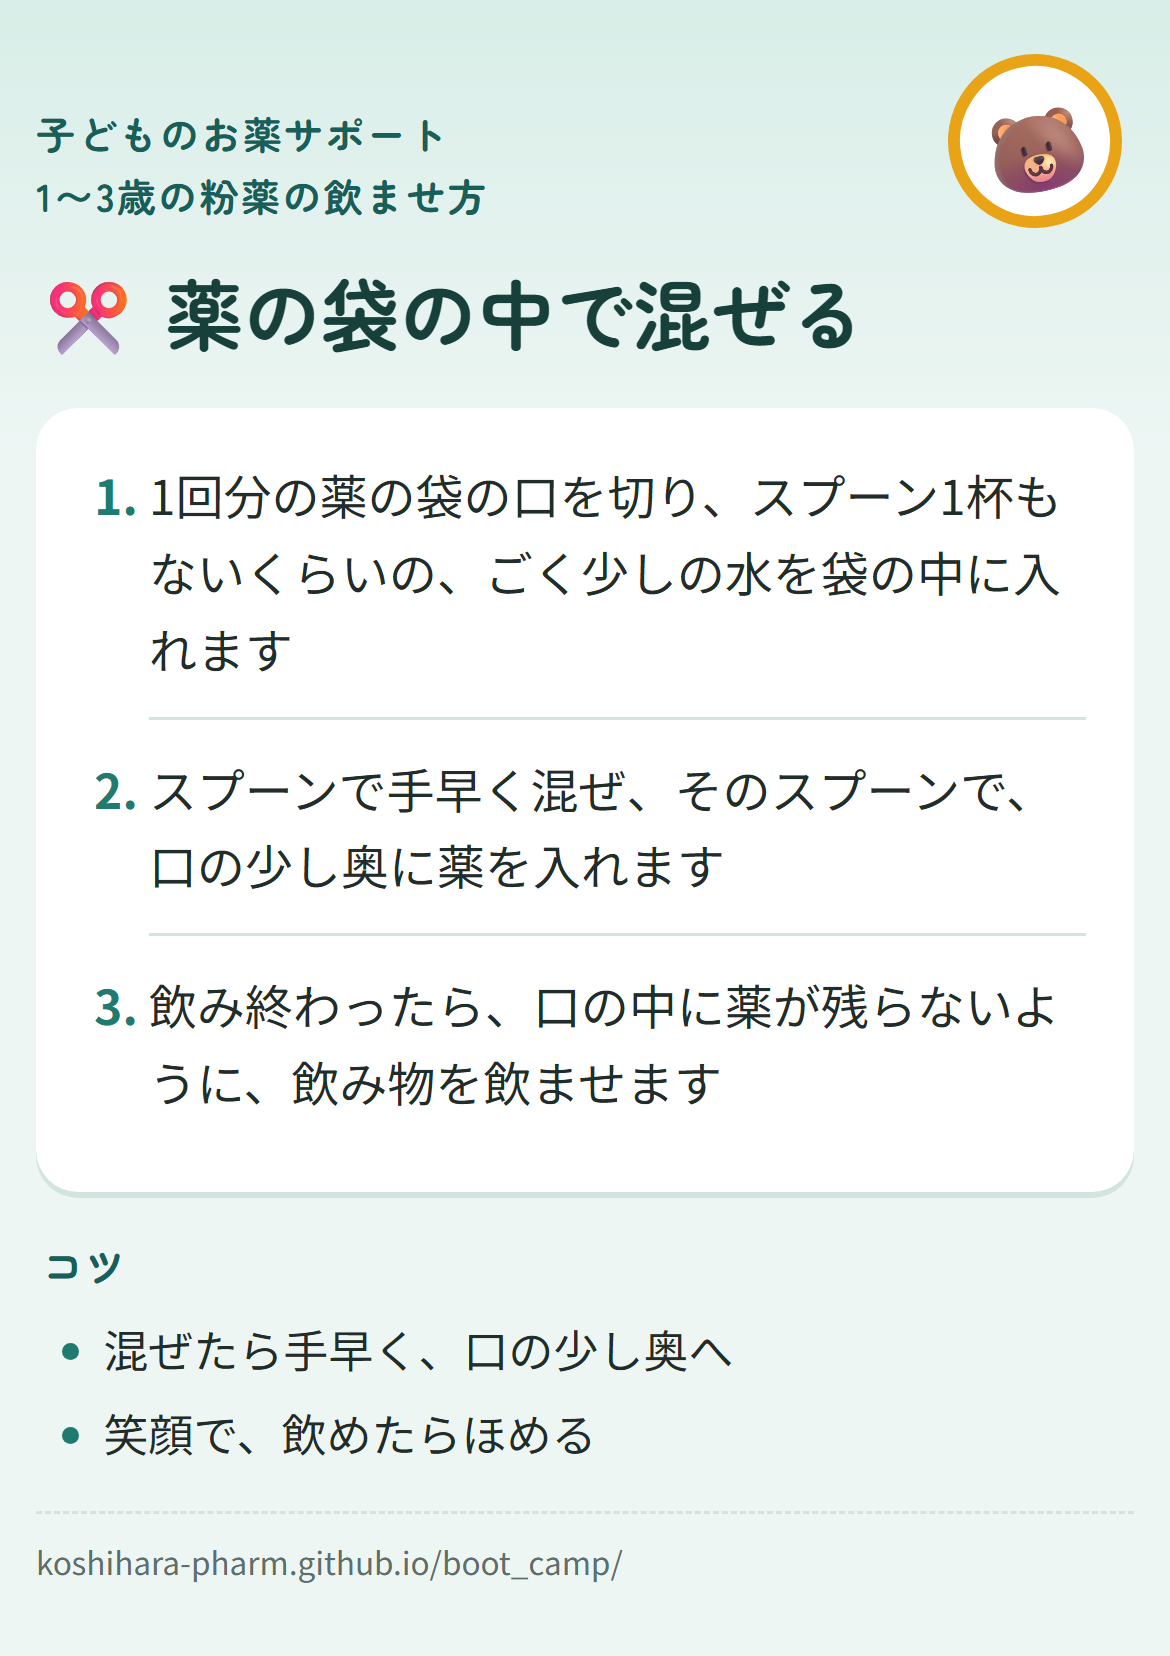
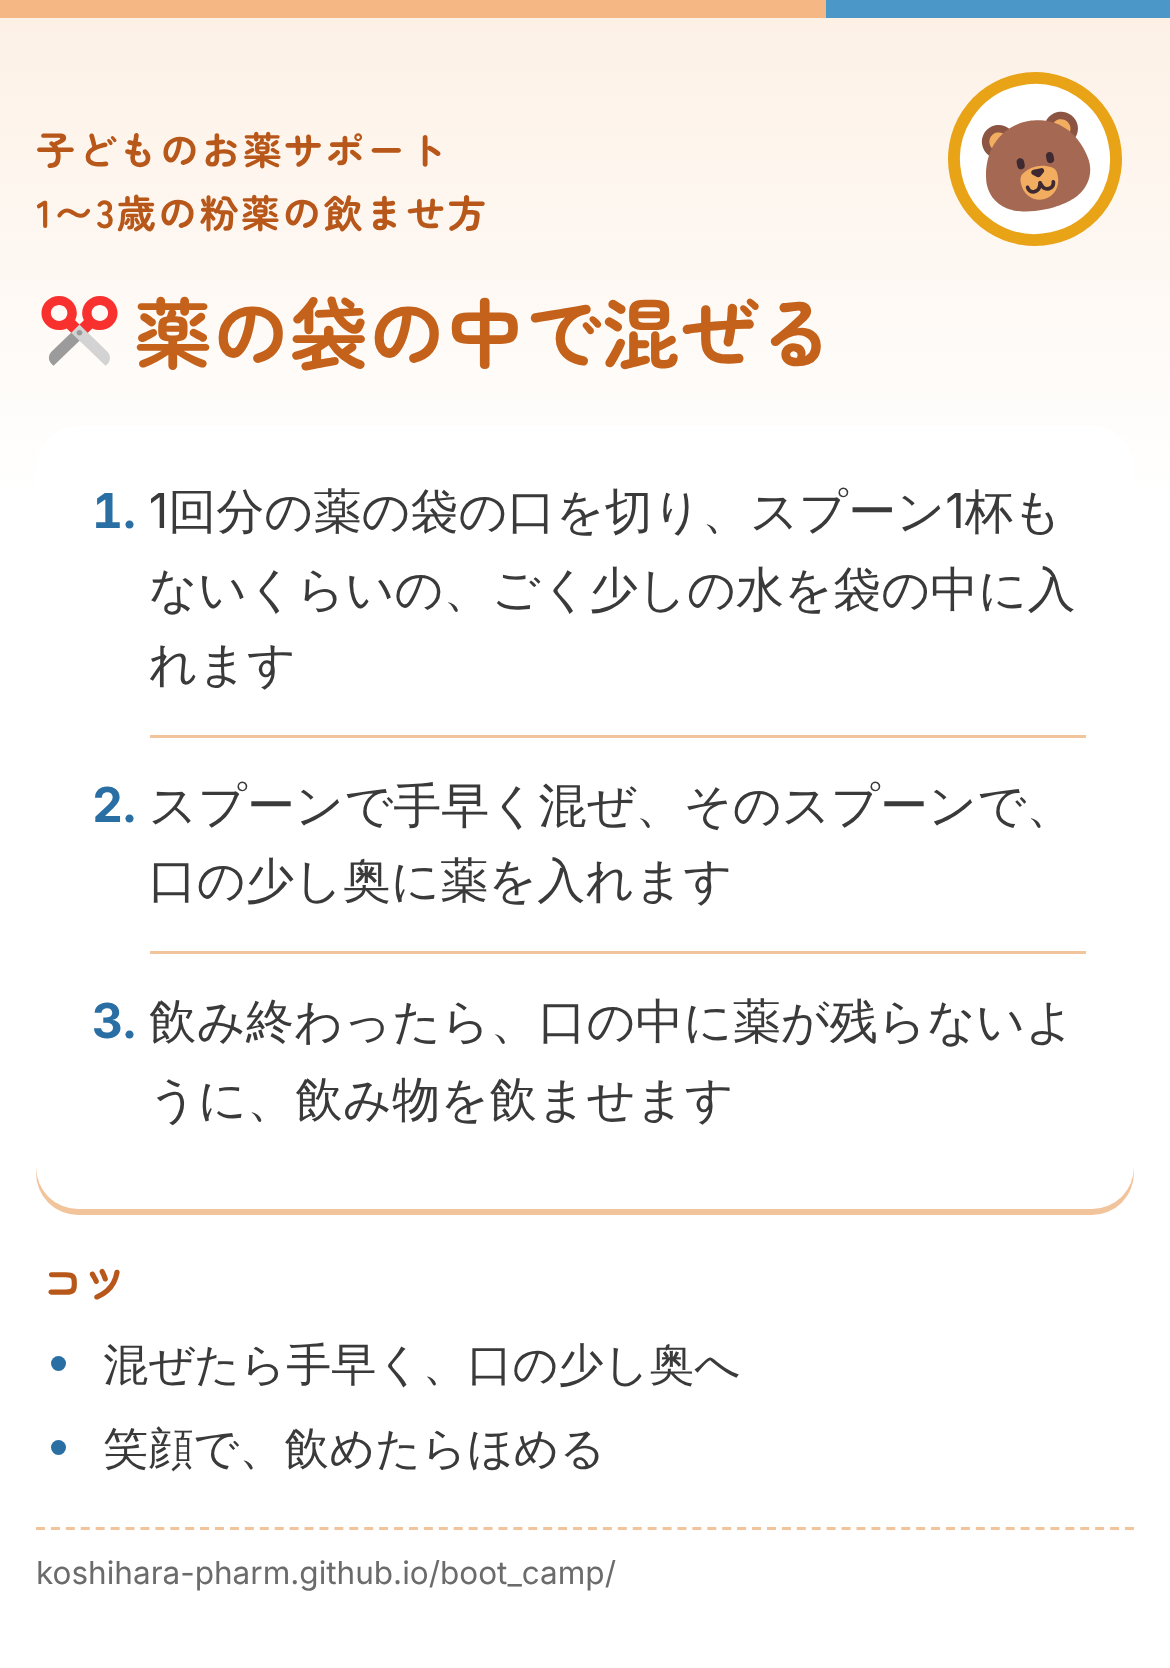
今回のテイストを全体に広げる（食べ物・飲ませ方の絵、準備中、保存用の画像）
- 食べ物14種類、飲ませ方の絵、保存ボタンの絵を、絵文字から平らな絵（img/fluent。Fluent Emoji、MIT）に
- 「準備中」の色を薄いオレンジに
- 保存用の画像（card/*.png）を、白い地・オレンジ・青・平らな絵で作り直した
- CLAUDE.md の「決まったこと」に、色を変えたことを書いた。docs/26 に記録

Claude-Session: https://claude.ai/code/session_018AXbnCCgmtKZNH12uYs5Wk

diff --git a/card/card.html b/card/card.html
@@ -10,17 +10,18 @@
 <link rel="preconnect" href="https://fonts.googleapis.com">
 <link rel="stylesheet" href="https://fonts.googleapis.com/css2?family=Zen+Maru+Gothic:wght@500;700&display=swap">
 <style>
+  /* 2026-11-07 サイトと同じテイストに: 白い地、オレンジ（見出し）、青（番号の印）。絵は平らな絵（../img/fluent） */
   :root {
-    --bg: #eef6f4;
-    --ink: #17403b;
-    --hero: #d9eee8;
+    --bg: #ffffff;
+    --ink: #c4611a;
+    --hero: #fdf1e6;
     --card: #ffffff;
-    --text: #1f2d2b;
-    --muted: #5d6e6b;
-    --line: #d3e3df;
-    --accent: #1f7a70;
+    --text: #3a3a3a;
+    --muted: #6b6b6b;
+    --line: #f2c49c;
+    --accent: #2a6fa3;
     /* 小さい文字の色。--accent は薄い背景の上で 4.26 対 1 しかないため（docs/22 の 4.5 対 1。2026-11-04 ui-check） */
-    --accent-deep: #17605a;
+    --accent-deep: #b8571a;
     --stamp: #e8a317;
     --best-bg: #fff2c4;
     --font-display: "Zen Maru Gothic", "Hiragino Maru Gothic ProN", "Hiragino Sans", "Noto Sans JP", sans-serif;
@@ -34,7 +35,11 @@
     background: linear-gradient(180deg, var(--hero) 0, var(--bg) 160px);
     color: var(--text);
     font-family: var(--font-body);
+    border-top: 6px solid transparent;
+    border-image: linear-gradient(90deg, #f5b783 0 70%, #4b97c8 70% 100%) 6;
   }
+  .stamp img { width: 40px; height: 40px; }
+  .ic { width: 1.1em; height: 1.1em; vertical-align: -0.15em; margin-right: 4px; }
   .card {
     margin: 0 12px;
     padding: 34px 0 16px;
@@ -106,13 +111,16 @@
     const NOT_TIPS = ["口直し", "服薬ゼリー"];
     const tips = HOWTO.filter((h) => (h.ages.includes(age) || h.ages.includes("all")) && !NOT_TIPS.some((w) => h.title.includes(w)));
 
+    // 絵文字のかわりに、サイトと同じ平らな絵で出す（2026-11-07）
+    const ICON_FILE = { "🍼": "baby-bottle", "🥄": "spoon", "✂": "scissors", "☝": "index-pointing-up", "💧": "droplet", "🍮": "custard", "🥛": "glass-of-milk" };
+    const icon = (e) => ICON_FILE[e] ? `<img class="ic" src="../img/fluent/${ICON_FILE[e]}.svg" alt="">` : (e ? e + " " : "");
     const esc = (s) => s.replace(/[&<>"]/g, (c) => ({ "&": "&amp;", "<": "&lt;", ">": "&gt;", '"': "&quot;" }[c]));
     const way = (key, hard) => {
       const m = METHODS[key];
       const name = m.title.replace("おすすめの飲ませ方: ", "");
       // コツと同じ文（data.js の cardDrop）は、手順から抜く。抜いて空になった手順は出さない
       const steps = m.steps.map((s) => (m.cardDrop || []).reduce((t, d) => t.replace("。" + d, "").replace(d, ""), s)).filter((s) => s.trim());
-      return `<div class="way${hard ? " hard" : ""}"><b>${m.icon} ${esc(name)}</b><ol>${steps.map((s) => `<li>${esc(fix(s))}</li>`).join("")}</ol></div>`;
+      return `<div class="way${hard ? " hard" : ""}"><b>${icon(m.icon)}${esc(name)}</b><ol>${steps.map((s) => `<li>${esc(fix(s))}</li>`).join("")}</ol></div>`;
     };
 
     const card = document.getElementById("card");
@@ -123,9 +131,9 @@
     // 1つのやり方だけのときは、やり方の名前を見出しにする
     const m = only && METHODS[only];
     card.innerHTML = `
-      <div class="stamp" aria-hidden="true">🐻</div>
+      <div class="stamp" aria-hidden="true"><img src="../img/fluent/bear.svg" alt=""></div>
       <p class="eyebrow">子どものお薬サポート${only ? `<br>${esc(f.label)}の粉薬の飲ませ方` : ""}</p>
-      <h1>${only ? `${m.icon} ${esc(m.title.replace("おすすめの飲ませ方: ", ""))}` : `${esc(f.label)}の粉薬の飲ませ方`}</h1>
+      <h1>${only ? `${icon(m.icon)}${esc(m.title.replace("おすすめの飲ませ方: ", ""))}` : `${esc(f.label)}の粉薬の飲ませ方`}</h1>
       ${body}
       <h2>コツ</h2>
       <ul class="tips">${[...(only && METHODS[only].tips || []), ...tips.map((h) => h.title)].map((t) => `<li>${esc(t)}</li>`).join("")}</ul>

diff --git a/index.html b/index.html
@@ -374,6 +374,14 @@
   .brandbar { border-image: linear-gradient(90deg, var(--kids-orange) 0 70%, var(--kids-blue) 70% 100%) 7; }
   .hero-head::before, .hero-head::after, .panel::before { color: var(--kids-orange); }
   .worry button, .worry button:nth-child(2), .worry button:nth-child(3), .worry button:nth-child(4) { --c: var(--kids-orange); color: var(--menu-ink); }
+
+  /* 平らな絵（img/fluent）の大きさ（2026-11-07） */
+  .chip img.fe { width: 26px; height: 26px; flex: none; }
+  img.mi { width: 26px; height: 26px; vertical-align: -6px; margin-right: 6px; }
+  img.bi { width: 20px; height: 20px; vertical-align: -4px; margin-right: 6px; }
+  /* 「準備中」も今回の色に（黄色 → 薄いオレンジ。2026-11-07） */
+  .list .prep { background: var(--taste-bg); border-color: var(--kids-orange); }
+  .list .prep-tag { background: var(--kids-orange); color: var(--menu-ink); }
 </style>
 </head>
 <body>
@@ -680,8 +688,21 @@
     "スポーツ飲料": "🥤", "ココア": "🍫", "乳酸菌飲料": "🧃",
   };
 
+  // 絵文字のかわりに、平らな絵（img/fluent。Fluent Emoji、MIT）で出す。スマホの種類で絵が変わらないように（2026-11-07 ユーザーの指示「今回のテイストにあわせて全部変更」）
+  const ICON_FILE = {
+    "🍨": "ice-cream", "💧": "droplet", "☕": "hot-beverage", "🍮": "custard", "🥛": "glass-of-milk", "🥄": "spoon",
+    "🍵": "teacup", "🥣": "bowl-with-spoon", "🍧": "shaved-ice", "🍎": "red-apple", "🍊": "tangerine",
+    "🥤": "cup-with-straw", "🍫": "chocolate-bar", "🧃": "beverage-box", "📥": "inbox-tray", "🍼": "baby-bottle",
+    "✂": "scissors", "☝": "index-pointing-up",
+  };
+  function ico(emoji, cls) {
+    const f = ICON_FILE[emoji];
+    if (!f) return el("span", { class: cls, "aria-hidden": "true", text: emoji || "・" });
+    return el("img", { class: cls, src: "img/fluent/" + f + ".svg", alt: "", "aria-hidden": "true" });
+  }
+
   function foodChip(food) {
-    return el("span", { class: "chip" }, [el("span", { class: "fe", "aria-hidden": "true", text: FOOD_EMOJI[food] || "・" }), food]);
+    return el("span", { class: "chip" }, [ico(FOOD_EMOJI[food], "fe"), food]);
   }
 
   function chipBox(title, cls, text, chips) {
@@ -763,7 +784,7 @@
   function flowItem(key, open) {
     const m = METHODS[key];
     const parts = [
-      el("summary", { text: m.icon + " " + m.title }),
+      el("summary", {}, [ico(m.icon, "mi"), m.title]),
       el("ol", {}, m.steps.map((s) => el("li", { text: s }))),
     ];
     if (m.to === "mix") {
@@ -773,7 +794,7 @@
     }
     // 保存用の画像（card/年齢-やり方.png。card/make.cjs で作る）を大きく出すボタン（2026-11-04 ユーザーと決定。docs/18 の 7-1）
     // 主役は「混ぜていい食べ物を探す」なので、控えめな形（link-button）を使い回す
-    const save = el("button", { type: "button", class: "link-button save-card" }, [el("span", { "aria-hidden": "true", text: "📥 " }), "この飲ませ方を保存"]);
+    const save = el("button", { type: "button", class: "link-button save-card" }, [ico("📥", "bi"), "この飲ませ方を保存"]);
     save.addEventListener("click", () => openCard(key, m));
     parts.push(save);
     const d = el("details", {}, parts);

diff --git a/CLAUDE.md b/CLAUDE.md
@@ -168,7 +168,7 @@ Claude がやること:
   - 「どれで のむ？」（子どもが混ぜていい食べ物を選ぶ）は 2026-10-14 に作ったが、同じ日に外した。毎回選ばせるのは、保護者から見ると手間が大きいため（ユーザーの判断）
 - 保存用の飲ませ方の画像（docs/18 の 7-1。card/年齢-やり方.png。card/make.cjs で data.js から作る）には、出どころと「医師・薬剤師に相談」を入れない。下にサイトの URL だけを置き、出どころはサイトで見てもらう（2026-11-03 ユーザーの判断）。1枚に1つのやり方だけを詳しく出し、コツはやり方ごとの大事なことと、全体に効くことを縦の箇条書きで出す（2026-11-04 ユーザーの判断）。やり方ごとのコツも、手順の中に枠で出さず、下の「コツ」の欄にまとめる（同日ユーザーの指示。ui-check の「近いものは仲間に見える」より、こちらを取った）。やり方ごとのコツ（data.js の METHODS の tips）は画像にだけ出し、サイトには出さない（同日ユーザーの判断。サイトの「コツ」の欄に並べたら見にくかった）。サイトの手順は元の文のままにし、画像ではコツと同じ文（cardDrop）を手順から抜く。各やり方の手順の下に「📥 この飲ませ方を保存」のボタン（控えめな link-button の形）を置き、押すとその画像が大きく出て、長押しで写真に保存する（同日。計画では「コツの下に1つ」だったが、画像がやり方ごとになったので、やり方ごとに置いた）
 - 今のサイトは、子どもや薬の情報をどこにも保存しない（2026-10-25 に記録とスタンプを外したため）。記録を足し直すときは、端末の中だけに保存し、送るかどうかは親が決める
-- 期間中にやりたいこと（2026-10-17 ユーザー）: なぜ薬を飲むのかの解説（動画）、飲ませ方の実演（動画）、代替薬を提案する機能、デザインの向上。デザインは「今は変えなくていい」（同日）としていたが、2026-11-05 に「デザインを上げる。いろいろ試したい」に変えた（ユーザー）。色、丸い文字、くまのスタンプは残す。1つずつ見比べのページで決め、ブランチで試してから main に入れる。使えそうな道具は docs/26。代替薬は「医療上の判断をしない」に合わせ、別の形があることと医師・薬剤師への相談の導線までにする。詳しくは docs/17
+- 期間中にやりたいこと（2026-10-17 ユーザー）: なぜ薬を飲むのかの解説（動画）、飲ませ方の実演（動画）、代替薬を提案する機能、デザインの向上。デザインは「今は変えなくていい」（同日）としていたが、2026-11-05 に「デザインを上げる。いろいろ試したい」に変えた（ユーザー）。丸い文字とくまのスタンプは残す。色は 2026-11-07 に変えた: 白を地に、デザインの本の「こども」の色から要るものだけ（オレンジ＝主役、青＝リンクと選んでいる印、緑＝「混ぜていい」だけ、赤＝「混ぜないほうがいい」の注意だけ。ピンクは使わない）。スマホのダークモードでも白で出す。雰囲気はキユーピーの離乳食のページに寄せ（絵とロゴは使わない）、Codex が作り込んだ。絵は平らな絵（img/fluent。Fluent Emoji、MIT。薬の粉の絵だけは自作）で、絵文字は使わない（ユーザー）。1つずつ見比べのページで決め、ブランチで試してから main に入れる。使えそうな道具と経緯は docs/26。代替薬は「医療上の判断をしない」に合わせ、別の形があることと医師・薬剤師への相談の導線までにする。詳しくは docs/17
 
 ## 進め方のメモ
 

diff --git a/docs/26_design_oss.md b/docs/26_design_oss.md
@@ -62,3 +62,4 @@
 | 2026-11-07 | ユーザーの指示で、お困りごとの丸のオレンジを薄めに（#f5b783。字は濃い茶色で 8.27 対 1）。「薬の味」の絵を、子どもが舌を出している絵に（Fluent Emoji の Child の口を描きかえた img/fluent/kid-tongue.svg） | ブランチに入れた。本番には出していない |
 | 2026-11-07 | 「薬の味」の絵を、子どもの顔（微妙とユーザー）から、薬の粉の絵に（分包をかたむけて、いちご色の粉を出している。img/fluent/powder.svg はこのサイトで描いた）。スマホのダークモードで背景が緑になっていた（暗い画面用の色が前の緑のままだった）ので、ダークモードの色の決まりを外し、いつも白で出すようにした（ユーザーの「白をベース」） | ブランチに入れた。本番には出していない |
 | 2026-11-07 | ユーザーの指摘「重複している」: 「混ぜていい？」「薬の味」を押すと出る案内の文が、上の説明文（味と、混ぜていい食べ物が分かります）と同じことを言っていた。2つとも「上の欄に、薬の名前を入れてください」だけにした | ブランチに入れた。本番には出していない |
+| 2026-11-07 | ユーザーの指示「このテイストで全体を変更」「混ぜていいで出るアイコンも全部変更」: 食べ物14種類、飲ませ方の絵（哺乳びん・スプーン・はさみ・指・しずく・プリン・牛乳）、保存ボタンの絵を、絵文字から平らな絵（img/fluent）に。「準備中」の黄色を薄いオレンジに。保存用の画像（card/*.png）も、card/card.html の色と絵を変えて全部作り直した（card/make.cjs は Windows の Chrome 用なので、この環境では同じ作りを Playwright で動かした） | ブランチに入れた。本番には出していない。読み物ページ（Notion + Wraptas）はまだ前の色 |
